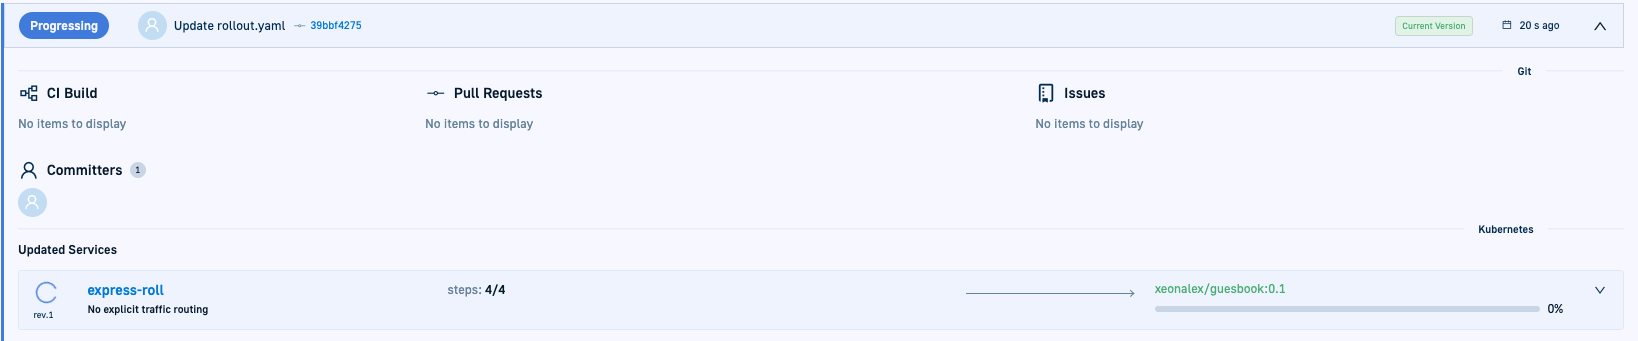
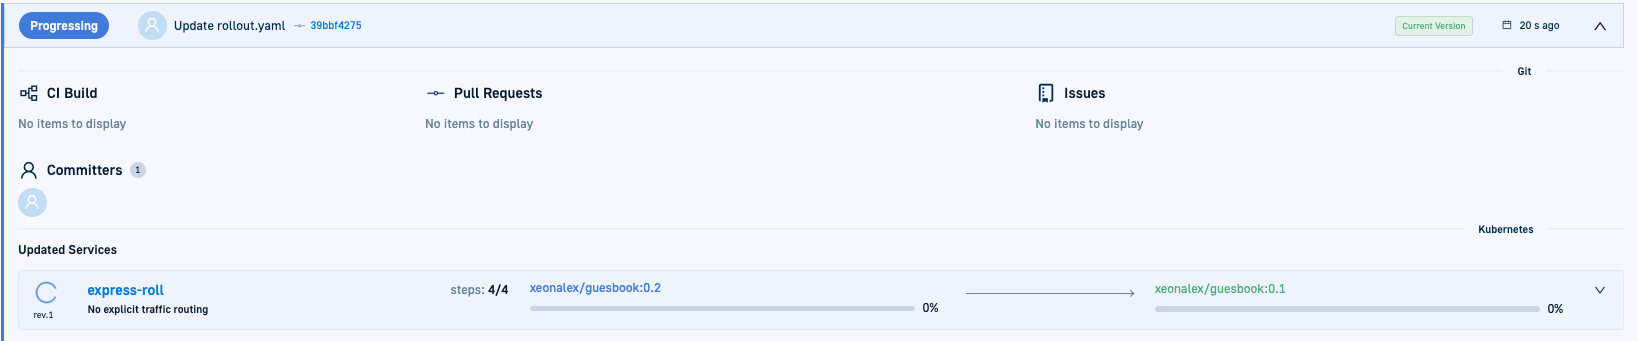
Update app rollback

Changed region(s): [[0.2802, 0.8211, 0.5916, 0.9091]]

diff --git a/_docs/deployments/gitops/applications-dashboard.md b/_docs/deployments/gitops/applications-dashboard.md
@@ -24,7 +24,7 @@ max-width="60%"
 Identify applications with [health and sync errors](#identify-applications-with-warningserrors), and then select an application to drill down into its resources, deployments, and services:  
 * [Get status from application header](#get-status-from-application-header)
 * [View deployment and configuration info for selected application](#view-deployment-and-configuration-info-for-selected-application)
-* 
+* [Rollback applications to previous deployments](#rollback-gitops-applications)
 * [Monitor resources for selected application](#monitor-resources-for-selected-application)
 * [Monitor deployments for selected application](#monitor-deployments-for-selected-application)
 * [Monitor services for selected application](#monitor-services-for-selected-application)
@@ -200,6 +200,98 @@ The Quick View includes the following tabs:
 
 
 
+## Rollback GitOps applications
+Rollback to a previously deployed version of active GitOps applications. You may want to rollback a newly deployed version due to errors, or applications that are out-of-sync.  
+
+### Prerequisites for rollback
+
+Rollback can be disabled for the following reasons:
+
+* **Auto-sync ON for applications**  
+  If auto-sync is `ON`, the default behavior for GitOps is to sync the cluster with the desired state in Git. The Rollback button is disabled with a tooltip.
+
+
+  For application rollback, auto-sync must be `OFF`. The quickest and easiest way to identify auto-sync status is through the Application Header.  
+  To change the setting, [edit]({{site.baseurl}}/docs/deployments/gitops/manage-application/#edit-application-definitions) the application's [General configuration settings]({{site.baseurl}}/docs/deployments/gitops/create-application/#application-general-configuration-settings).
+
+
+  {% include
+image.html
+lightbox="true"
+file="/images/applications/app-rollback-autosync-app-header.png"
+url="/images/applications/app-rollback-autosync-app-header.png"
+alt="Auto-sync status in Application Header"
+caption="Auto-sync status in Application Header"
+max-width="80%"
+%}
+
+ 
+
+* **Deleted version of application**  
+  You can activate rollback only for _new_ and currently active application versions that are deployed.  
+  If you deleted an application and then recreated it with the same name, you cannot rollback to the deleted version or to any version prior to the deletion. The Rollback button is disabled with a tooltip.
+  
+  {% include
+image.html
+lightbox="true"
+file="/images/applications/app-rollback-disabled.png"
+url="/images/applications/app-rollback-disabled.png"
+alt="Rollback disabled for deleted version of application"
+caption="Rollback disabled for deleted version of application"
+max-width="80%"
+%}
+
+* **Deployment version older than history limit**  
+  By default, you can rollback to any the previous ten deployments (same as Argo CD). 
+  If you try to rollback to a deployment older than ten of the most recent deployments, the Rollback option is disabled with a tooltip, that the 'Release is not in history'.
+
+  >TIP:  
+  >To configure a different number, edit the application manifest and add `RevisionHistoryLimit` set to the number of previous deployments you need in the `spec` section.
+
+
+### How to rollback an application 
+1. In the Codefresh UI, from Ops in the sidebar, select **GitOps Apps**. 
+1. Select the application to rollback and then click the **Timeline** tab.
+1. In the Application Header, verify that Auto-sync is `OFF` for the application.
+1. Mouse over the deployment version to rollback to view the Rollback option. 
+
+  {% include
+image.html
+lightbox="true"
+file="/images/applications/app-rollback-enabled.png"
+url="/images/applications/app-rollback-enabled.png"
+alt="Rollback application in Timeline tab"
+caption="Rollback application in Timeline tab"
+max-width="70%"
+%}
+
+{:start="5"}
+1. To start, click **Rollback** and confirm.
+  * The 'Rollout process started' notification is displayed.
+  * The application's Health status changes to `Progressing` and the Sync status changes to `out-of-sync`.
+  *  A deployment record is created for the rollout with `Progressing`.
+
+  {% include
+image.html
+lightbox="true"
+file="/images/applications/app-rollback-progressing.png"
+url="/images/applications/app-rollback-progressing.png"
+alt="Rollback progressing in deployment record"
+caption="Rollback progressing in deployment record"
+max-width="70%"
+%}
+
+Once completed, the application's statuses are updated.
+
+  {% include
+image.html
+lightbox="true"
+file="/images/applications/app-rollback-completed.png"
+url="/images/applications/app-rollback-completed.png"
+alt="Rollback completed for application"
+caption="Rollback completed for application"
+max-width="70%"
+%}
 
 
 ## Monitor resources for selected application
@@ -506,7 +598,6 @@ max-width="30%"
 %}
 
 You can:  
-* [Rollback applications to previous deployments](#rollback-gitops-applications)
 * [Monitor CI details by deployments](#monitor-ci-details-by-deployment) 
 <!--* [Monitor updated resources by deployment](#monitor-updated-resources-by-deployment)  -->
 * [Monitor rollouts by deployment](#monitor-rollouts-by-deployment)
@@ -527,90 +618,6 @@ caption="GitOps Apps dashboard: Deployment chart"
 max-width="60%"
 %}
 
-### Rollback GitOps applications
-Rollback to a previously deployed version of active GitOps applications. You may want to rollback a newly deployed version due to errors, or out-of-sync applications.  
-
-You can rollback to up to the previous ten releases (same as Argo CD).
-
-
-
-**Prerequisites**  
-
-* New versions of applications  
-  You can activate rollback only for _new_ and currently active application versions that are deployed.  
-  If you deleted an application and then recreated it with the same name, you cannot rollback to the deleted version or to a version prior to the deletion. The Rollback option is disabled with a tooltip.
-  
-  {% include
-image.html
-lightbox="true"
-file="/images/applications/app-rollback-disabled.png"
-url="/images/applications/app-rollback-disabled.png"
-alt="Rollback disabled for deleted version of application"
-caption="Rollback disabled for deleted version of application"
-max-width="80%"
-%}
-
-
-* Auto-sync for applications  
-  If auto-sync is `ON`, the default behavior for GitOps is to sync the cluster with the desired state in Git. 
-  For application rollback, auto-sync must be `OFF`. The quickest and easiest way to identify auto-sync status is through the Application Header. 
-
-
-  {% include
-image.html
-lightbox="true"
-file="/images/applications/app-rollback-autosync-app-header.png"
-url="/images/applications/app-rollback-autosync-app-header.png"
-alt="Auto-sync status in Application Header"
-caption="Auto-sync status in Application Header"
-max-width="80%"
-%}
-
-  To change the setting, [edit]({{site.baseurl}}/docs/deployments/gitops/manage-application/#edit-application-definitions) the application's [General configuration settings]({{site.baseurl}}/docs/deployments/gitops/create-application/#application-general-configuration-settings).
-
-**How to**  
-1. In the Codefresh UI, from Ops in the sidebar, select **GitOps Apps**. 
-1. Select the application to rollback and then click the **Timeline** tab.
-1. In the Application Header, verify that Auto-sync is `OFF` for the application.
-1. Mouse over the deployment version to rollback to. The Rollback option is enabled. 
-
-  {% include
-image.html
-lightbox="true"
-file="/images/applications/app-rollback-enabled.png"
-url="/images/applications/app-rollback-enabled.png"
-alt="Rollback application in Timeline tab"
-caption="Rollback application in Timeline tab"
-max-width="70%"
-%}
-
-{:start="5"}
-1. To start, click **Rollback** and confirm.
-  * The 'Rollout process started' notification is displayed.
-  * The application's Health status changes to `Progressing` and the Sync status changes to `out-of-sync`.
-  *  A deployment record is created for the rollout with `Progressing`.
-
-  {% include
-image.html
-lightbox="true"
-file="/images/applications/app-rollback-progressing.png"
-url="/images/applications/app-rollback-progressing.png"
-alt="Rollback progressing in deployment record"
-caption="Rollback progressing in deployment record"
-max-width="70%"
-%}
-
-Once completed, the application's statuses are updated.
-
-  {% include
-image.html
-lightbox="true"
-file="/images/applications/app-rollback-completed.png"
-url="/images/applications/app-rollback-completed.png"
-alt="Rollback completed for application"
-caption="Rollback completed for application"
-max-width="70%"
-%}
 
 ### Monitor CI details by deployment
 
